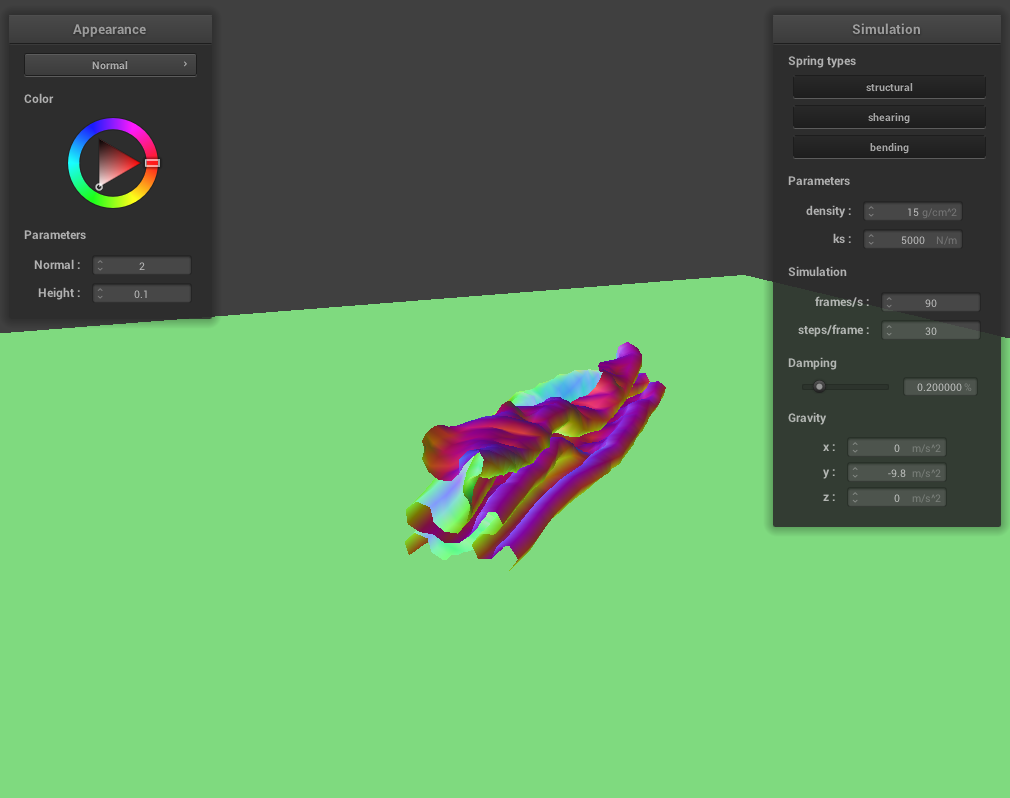
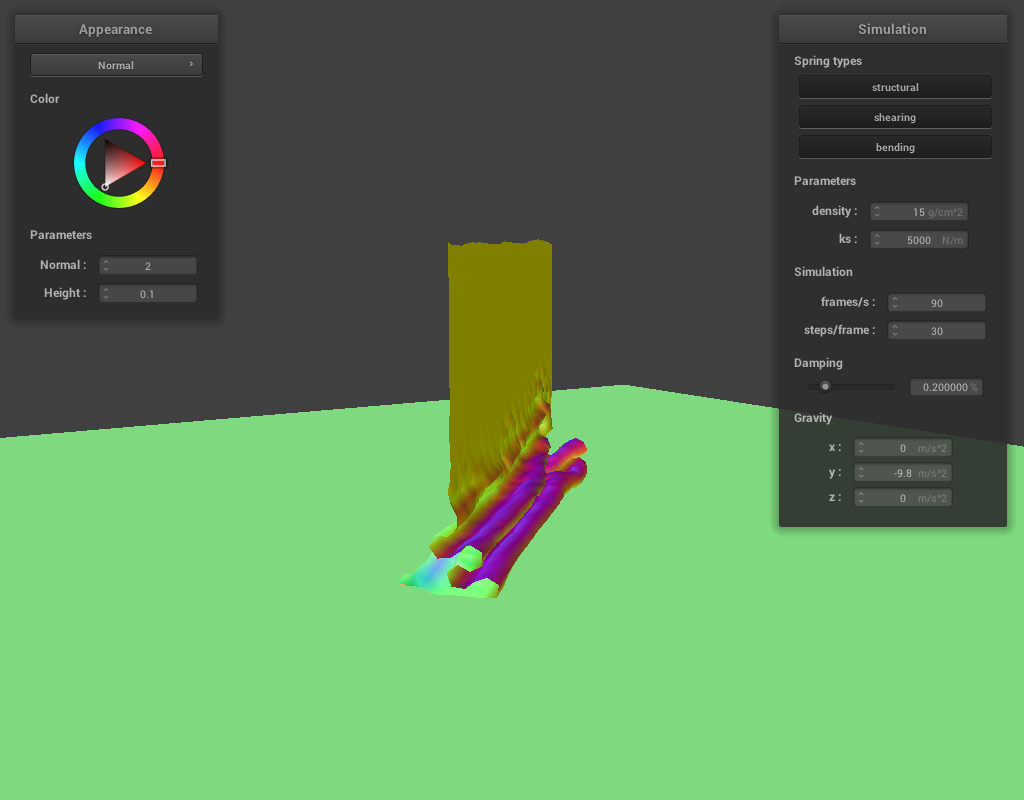
finish writeup

diff --git a/proj4/index.html b/proj4/index.html
@@ -197,6 +197,143 @@
 <img src="images/end collide.png" align="middle" width="400px"/>
 <figcaption align="middle">End Collision</figcaption>
 </div>
+<p> With a higher density, the cloth crumples more with greater force against itself and flops around less. The cloth has more of a weighty feel, which is expected. As ks increases, the cloth ripples less and comes to a more convincing rest. With a very high spring constant, the cloth becomes more rigid looking and less convincing when it crumples onto itself.
+	The biggest visual difference through photos can be seen at their rest states. High density and low spring constant flattens the cloth, whereas low density and high spring constant props it higher up. 
+</p>
+<div align="middle">
+	<table style="width=100%">
+	  <tr>
+		<td>		
+			<img src="images/lowdens_spring.png" align="middle" width="400px"/>
+			<figcaption align="middle">Low density</figcaption>
+		</td>
+		<td>		
+			<img src="images/highdens_spring.png" align="middle" width="400px"/>
+			<figcaption align="middle">High density</figcaption>
+		</td>
 
+	</tr>
+	</table>
+</div>
+<div align="middle">
+	<table style="width=100%">
+	  <tr>
+	<td>
+		<img src="images/highks_spring.png" align="middle" width="400px"/>
+		<figcaption align="middle">High spring constant</figcaption>
+	</td>
+	<td>
+		<img src="images/lowks_spring.png" align="middle" width="400px"/>
+		<figcaption align="middle">Low spring constant</figcaption>
+	</td>
+	</tr>
+</table>
+</div>
+
+<h2 align="middle">Part 5: Shaders</h2>
+<br>
+<p>
+	Shader programs are programs that run on the GPU, which is significantly faster because of their parallel computing capabilities. They render the lighting in place of the CPU. In our pipeline, we input into the fragment shaders the output of the vertex shaders. 
+	The vertex shaders handle the transformations of vertices, whereas the fragment shaders are using those transformations to compute properties of a fragment (or sample), in our case color. 
+	</p>
+
+	<p>We first implemented the Blinn-Phong model. Below contains each component of the model, and finally a render using the full model</p>
+<div align="middle">
+	<table style="width=100%">
+	<tr>
+		<td>
+			<img src="images/ambient_only.png" align="middle" width="400px"/>
+			<figcaption align="middle">Ambient component only</figcaption>
+		</td>
+		<td>
+			<img src="images/diffuse_only.png" align="middle" width="400px"/>
+			<figcaption align="middle">Diffuse component only</figcaption>
+		</td>
+		<tr>
+			<td>
+			<img src="images/specular_only.png" align="middle" width="400px"/>
+			<figcaption align="middle">Specular component only</figcaption>
+			</td>
+			<td>
+			<img src="images/fullbphong.png" align="middle" width="400px"/>
+			<figcaption align="middle">Full Blinn-Phong Model</figcaption>
+			</td>
+		</tr>
+	</tr>
+</table>
+
+<p>Next was implementing textures. This was simply using the texture function and sampling</p>
+<div align="middle">
+			<img src="images/custom_texture.png" align="middle" width="400px"/>
+			<figcaption align="middle">Custom texture</figcaption>
+</div>
+<p>
+	 Bump does not affect the vertex location; it only changes the shading based on the normal. Displacement mapping changes the actual location of the vertex, hence the name. It's immediately clear
+	that the vertex positions are changed in displacement versus bump from the pRotruding points on the right hand side shown below. 
+	</p>
+<div align="middle">
+	<table style="width=100%">
+		<tr>
+			<td>
+			<img src="images/bump_cloth.png" align="middle" width="400px"/>
+			<figcaption align="middle">Bump mapping on cloth</figcaption>
+			</td>
+			<td>
+			<img src="images/bump_sphere.png" align="middle" width="400px"/>
+			<figcaption align="middle">Bump mapping on sphere</figcaption>
+			</td>
+		</tr>
+		<tr>
+			<td>
+			<img src="images/displacement_cloth.png" align="middle" width="400px"/>
+			<figcaption align="middle">Displacement mapping on cloth</figcaption>
+			</td>
+			<td>
+			<img src="images/displacement_sphere.png" align="middle" width="400px"/>
+			<figcaption align="middle">Displacement mapping on sphere</figcaption>
+			</td>
+		</tr>
+		</table>
+		<p>Differing coarseness has no noticeable effect in the bump map, but a clear effect in the displacement map. The displaced vertices in the higher resolution render are less noticeable. </p>
+		<table>
+		<tr>
+			<td>
+			<img src="images/bump_16.png" align="middle" width="400px"/>
+			<figcaption align="middle">Bump, 16</figcaption>
+			</td>
+			<td>
+			<img src="images/displacement_16.png" align="middle" width="400px"/>
+			<figcaption align="middle">Displacement, 16</figcaption>
+			</td>
+		</tr>
+		<tr>
+			<td>
+			<img src="images/bump_128.png" align="middle" width="400px"/>
+			<figcaption align="middle">Bump, 128</figcaption>
+			</td>
+			<td>
+			<img src="images/displacement_128.png" align="middle" width="400px"/>
+			<figcaption align="middle">Displacement, 128</figcaption>
+			</td>
+		</tr>
+	</table>
+</div>
+<p> Finally, the mirror shader was implemented.
+</p>
+	<div align="middle">
+		<table>
+		<tr>
+			<td>
+			<img src="images/mirror_cloth.png" align="middle" width="400px"/>
+			<figcaption align="middle">Mirror on cloth</figcaption>
+			</td>
+			<td>
+			<img src="images/mirror_sphere.png" align="middle" width="400px"/>
+			<figcaption align="middle">Mirror on sphere</figcaption>
+			</td>
+		</tr>
+	</table>
+</div>
+</div>
 </body>
 </html>
